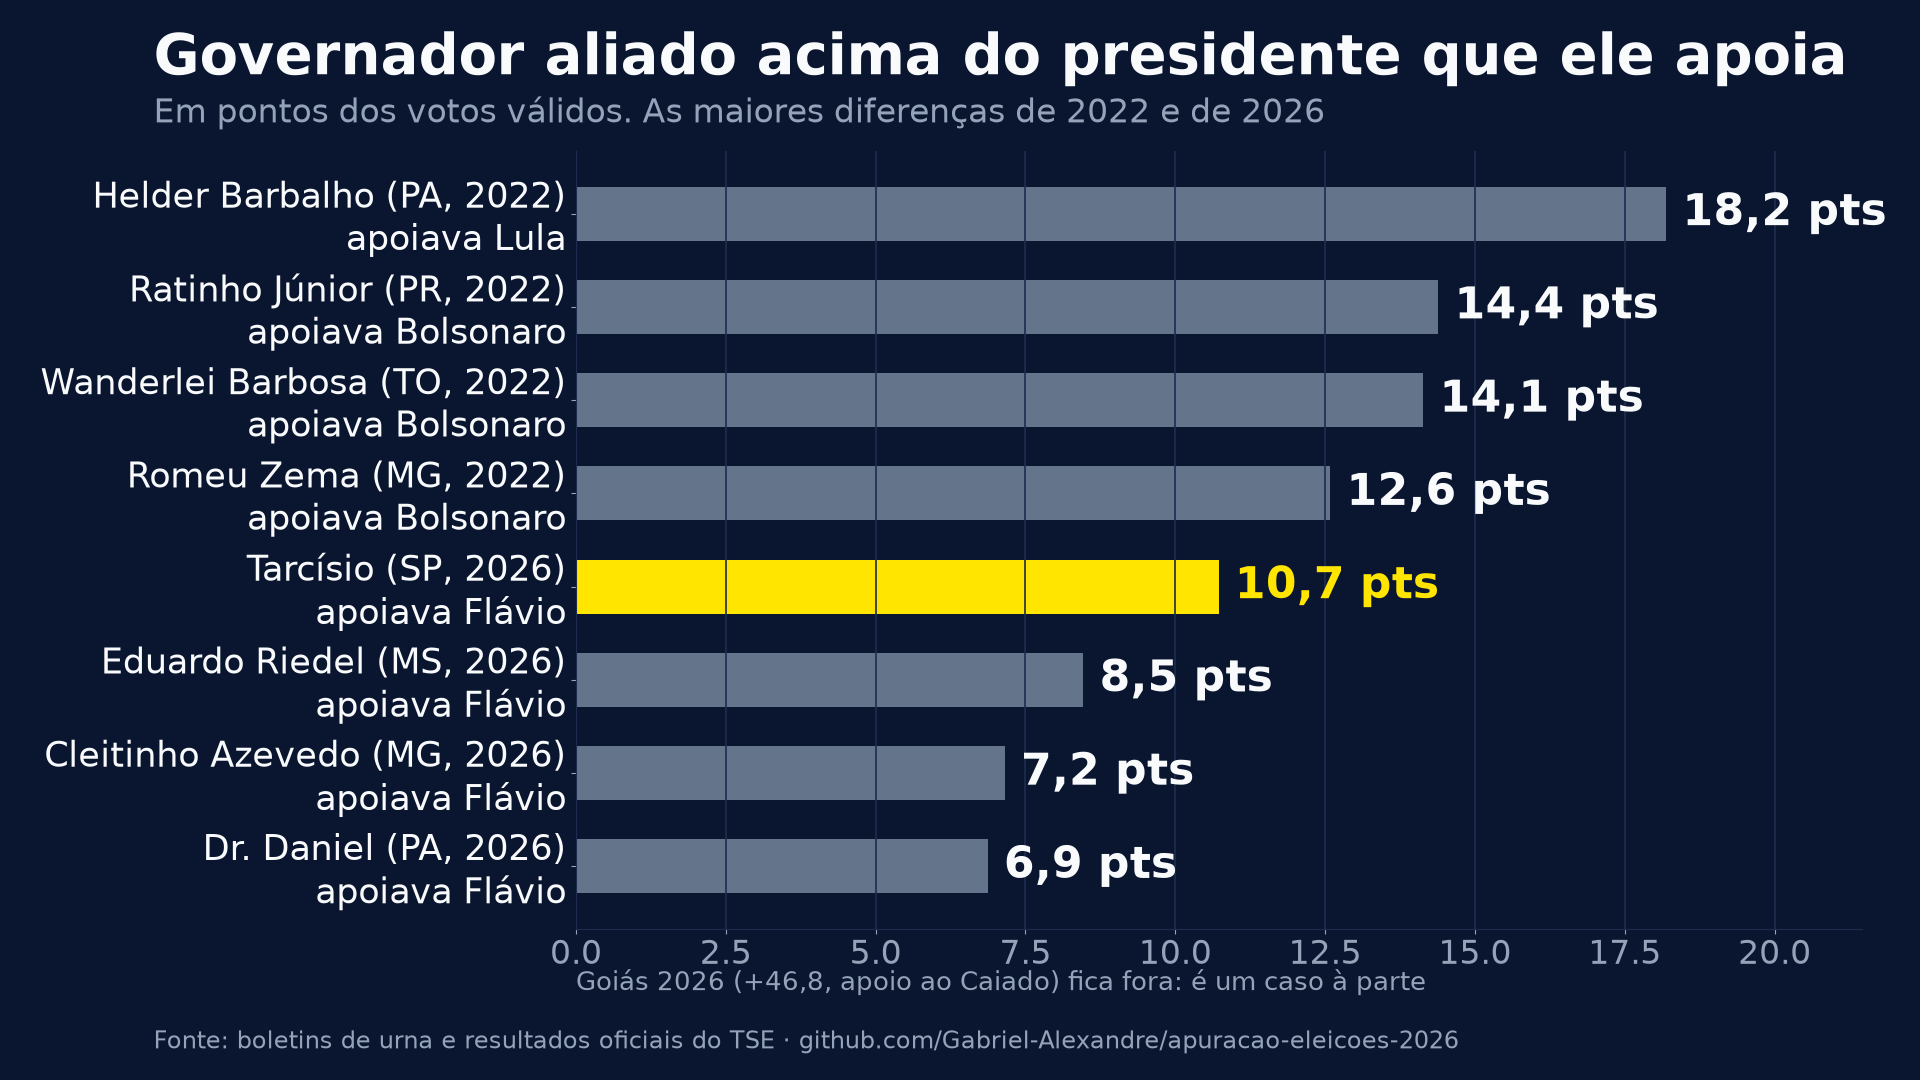
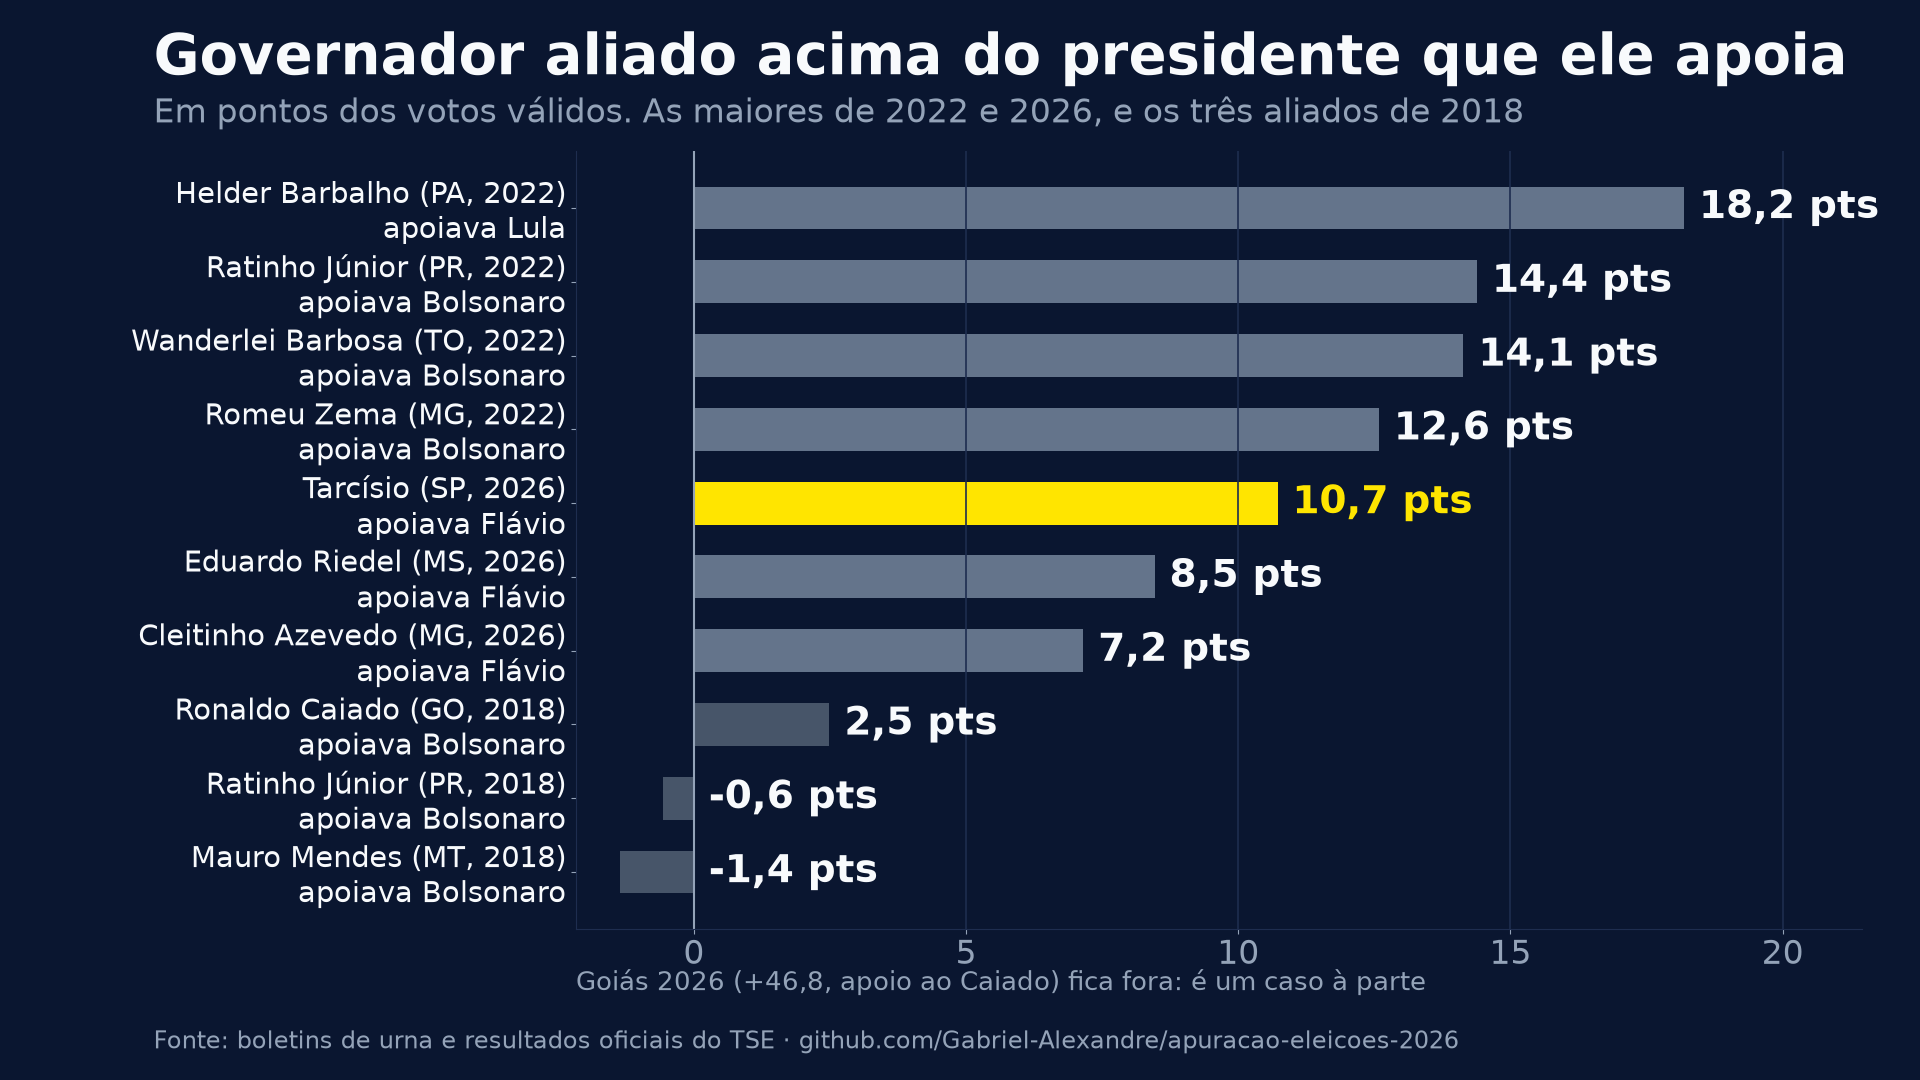
docs: 2018 na leitura da IA e no grafico dos governadores aliados

diff --git a/ferramentas/analise-6-graficos-do-video.py b/ferramentas/analise-6-graficos-do-video.py
@@ -332,9 +332,10 @@ def barras_simples(titulo, sub, rotulos, valores, cores, nome, unidade="", fmt=1
     y = np.arange(len(rotulos))[::-1]
     ax.barh(y, valores, color=cores, height=0.58)
     for yy, x, c in zip(y, valores, cores):
-        ax.text(x + (max(valores) * 0.015), yy, f"{v(x, fmt)}{unidade}", va="center", fontsize=32, fontweight="bold", color=ACENTO if c == ACENTO else FG)
-    ax.set_yticks(y); ax.set_yticklabels(rotulos, fontsize=25, color=FG)
-    ax.set_xlim(0, xmax or max(valores) * 1.18); ax.grid(axis="y", visible=False)
+        ax.text(max(x, 0) + (max(valores) * 0.015), yy, f"{v(x, fmt)}{unidade}", va="center", fontsize=28 if len(rotulos) > 8 else 32, fontweight="bold", color=ACENTO if c == ACENTO else FG)
+    ax.set_yticks(y); ax.set_yticklabels(rotulos, fontsize=21 if len(rotulos) > 8 else 25, color=FG)
+    ax.set_xlim(min(0, min(valores) * 1.6), xmax or max(valores) * 1.18); ax.grid(axis="y", visible=False)
+    ax.axvline(0, color=MUTED, lw=1.5)
     if nota:
         fig.text(0.30, 0.09, nota, fontsize=19, color=MUTED, ha="left", va="center")
     salvar(fig, nome)
@@ -363,7 +364,7 @@ def g16_vazio_comparado():
 
 def g17_governadores_aliados():
     lr = pd.read_csv(saida.RES / "p5_lacuna_governador_presidente.csv")
-    escolha = [(2022, "PA"), (2022, "PR"), (2022, "TO"), (2022, "MG"), (2026, "SP"), (2026, "MS"), (2026, "MG"), (2026, "PA")]
+    escolha = [(2022, "PA"), (2022, "PR"), (2022, "TO"), (2022, "MG"), (2026, "SP"), (2026, "MS"), (2026, "MG"), (2018, "GO"), (2018, "PR"), (2018, "MT")]
     rot, val, cor = [], [], []
     for ano, uf in escolha:
         r = lr[(lr.ano == ano) & (lr.uf == uf)].iloc[0]
@@ -371,8 +372,8 @@ def g17_governadores_aliados():
         nome = str(r.governador).replace("Tarcisio", "Tarcísio").replace("Ratinho Junior", "Ratinho Júnior")
         rot.append(f"{nome} ({uf}, {ano})\napoiava {apoio}")
         val.append(float(r.lacuna_pontos))
-        cor.append(ACENTO if uf == "SP" else NEUTRO)
-    barras_simples("Governador aliado acima do presidente que ele apoia", "Em pontos dos votos válidos. As maiores diferenças de 2022 e de 2026",
+        cor.append(ACENTO if uf == "SP" else ("#475569" if ano == 2018 else NEUTRO))
+    barras_simples("Governador aliado acima do presidente que ele apoia", "Em pontos dos votos válidos. As maiores de 2022 e 2026, e os três aliados de 2018",
                    rot, val, cor, "g17_governadores_aliados.png", " pts",
                    nota="Goiás 2026 (+46,8, apoio ao Caiado) fica fora: é um caso à parte")
 

diff --git a/docs/LEITURA_DA_IA.md b/docs/LEITURA_DA_IA.md
@@ -13,10 +13,10 @@ Todo número sai de [`resultados/RESUMO.json`](../resultados/RESUMO.json) e dos 
 | 1 | **Os dados** | 499.192 boletins (6,55 GB), cada arquivo com sha256 em `dados/MANIFESTO.json` | · | a base está completa: só 15 seções não têm arquivo publicado pelo TSE |
 | 2 | **A soma contra o oficial** | 99,96% das comparações município e cargo iguais voto por voto; sobra de 3.935 votos de presidente nas 15 seções sem arquivo | · | **resolvido.** O número anunciado pelo TSE é a soma das urnas que ele mesmo publicou. Voto que aparecesse no total sem estar em boletim apareceria nessa conta, e não apareceu |
 | 3 | **A noite refeita** | 13 dos 14 placares publicados pela imprensa batem com a soma dos boletins, com diferença de centésimos (`g06`) | · | os placares que passaram na televisão saíram de boletins que já tinham chegado |
-| 4 | **A queda da vantagem** | de 10,55 pontos (10% das seções) para 1,87 no fim: **8,7 pontos**. A ordem das regiões explica 69% (estado e capital, 78%); com a ordem sorteada a vantagem fica perto de 2 pontos a noite toda (`g03`, `g04`) | 2022, 1º turno: **10,7 pontos**, e virou (Lula passou com 68,2% das seções); 2022, 2º turno: 5,8 e virou (`g15`) | **normal.** É o jeito da apuração brasileira, com Sul e Centro-Oeste chegando antes do Nordeste. A de 2026 caiu **menos** que a do 1º turno de 2022. A queda começou às 17:58, mais de uma hora antes de a tela parar |
+| 4 | **A queda da vantagem** | de 10,55 pontos (10% das seções) para 1,87 no fim: **8,7 pontos**. A ordem das regiões explica 69% (estado e capital, 78%); com a ordem sorteada a vantagem fica perto de 2 pontos a noite toda (`g03`, `g04`) | 2022, 1º turno: **10,7 pontos**, e virou (Lula passou com 68,2% das seções); 2022, 2º turno: 5,8 e virou (`g15`). 2018 não entra: os dados abertos daquele ano não trazem a hora de chegada de cada boletim | **normal.** É o jeito da apuração brasileira, com Sul e Centro-Oeste chegando antes do Nordeste. A de 2026 caiu **menos** que a do 1º turno de 2022. A queda começou às 17:58, mais de uma hora antes de a tela parar |
 | 5 | **A tela parada** | travou às 19h06 (64,81%) e voltou às 20h08 (84,96%); nas duas pontas, o placar é a soma dos boletins recebidos até 1,9 e 8,5 minutos antes | · | **normal.** A tela travou, e o número que voltou era a soma de boletins reais |
-| 6 | **O registro de chegada** | nenhum boletim registrado das 19:31:50 às 19:59:22 (**27,5 min**), e depois 20.171 em 6 minutos, de urnas que tinham emitido o boletim em mediana às 17:19 (espera mediana de 162 min); a margem desse lote é a esperada pras regiões dele | maior buraco de 2022: **7,4 min** no 1º turno, 4,6 no 2º (`g16`). Pico de chegada: 5.119 por minuto, contra 3.791 em 2022 | **pede explicação.** Tem cara de fila travada que destravou de uma vez, o que combina com o congestionamento que o TSE declarou. Nenhum boletim sumiu e o lote votou como as regiões dele votam. A causa fica dentro do sistema do TSE, e é a única coisa da noite que, na leitura da IA, merece explicação oficial |
-| 7 | **São Paulo** | Tarcísio 62,65%, Flávio 51,93% (10,7 pontos). 12,5% de quem votou anulou ou votou em branco pra governador, contra 5,9% pra presidente; sobre quem votou, a diferença é de 5,9 pontos (45% era base). Aparece nas 645 cidades (a menor, 4,7). Estimativa: 87% dos eleitores do Tarcísio votaram no Flávio; 9,4% no Cury, no Caiado e no Renan Santos | entre os aliados do Flávio em 2026 é a maior; em 2022, Ratinho Júnior (PR) ficou 14,4 pontos acima do Bolsonaro, Zema (MG) 12,6 e Wanderlei Barbosa (TO) 14,1 (`g17`) | **normal.** É voto dividido: eleitor do governador que escolheu outro nome pra presidente. O tamanho já aconteceu com aliados do Bolsonaro em 2022 |
+| 6 | **O registro de chegada** | nenhum boletim registrado das 19:31:50 às 19:59:22 (**27,5 min**), e depois 20.171 em 6 minutos, de urnas que tinham emitido o boletim em mediana às 17:19 (espera mediana de 162 min); a margem desse lote é a esperada pras regiões dele | maior buraco de 2022: **7,4 min** no 1º turno, 4,6 no 2º (`g16`); de 2018 não há esse registro. Pico de chegada: 5.119 por minuto, contra 3.791 em 2022 | **pede explicação.** Tem cara de fila travada que destravou de uma vez, o que combina com o congestionamento que o TSE declarou. Nenhum boletim sumiu e o lote votou como as regiões dele votam. A causa fica dentro do sistema do TSE, e é a única coisa da noite que, na leitura da IA, merece explicação oficial |
+| 7 | **São Paulo** | Tarcísio 62,65%, Flávio 51,93% (10,7 pontos). 12,5% de quem votou anulou ou votou em branco pra governador, contra 5,9% pra presidente; sobre quem votou, a diferença é de 5,9 pontos (45% era base). Aparece nas 645 cidades (a menor, 4,7). Estimativa: 87% dos eleitores do Tarcísio votaram no Flávio; 9,4% no Cury, no Caiado e no Renan Santos | entre os aliados do Flávio em 2026 é a maior; em 2022, Ratinho Júnior (PR) ficou 14,4 pontos acima do Bolsonaro, Zema (MG) 12,6 e Wanderlei Barbosa (TO) 14,1. Em 2018, o contrário: os três aliados do Bolsonaro eleitos no 1º turno ficaram a menos de 3 pontos dele (Caiado +2,5, Ratinho −0,6, Mauro Mendes −1,4). Com os 33 casos de 2018 a 2026, SP fica entre os percentis 5 e 95 (`g17`) | **normal.** É voto dividido: eleitor do governador que escolheu outro nome pra presidente. O tamanho já aconteceu com aliados do Bolsonaro em 2022. Diferença grande entre aliados não é regra (em 2018 não houve), mas também não é inédita |
 | 8 | **O Senado** | 19 senadores do PL, todos em estados onde o Flávio ganhou; zero nos 12 estados com o Lula na frente ou empate. Ligação por cidade entre o voto no Flávio e no candidato do PL: 0,79 | 2022: 0,65; 2018: 0,70 (`g11`) | **normal, e mais intenso.** É o voto casado de sempre. Nos estados do Nordeste em que o PL foi melhor do que costuma (BA, CE, PE), a explicação mais provável é o segundo voto pro Senado indo pro candidato do PL mesmo de quem votou no Lula |
 | 9 | **As cidades** | 5.273 testadas em três testes; nenhuma nos três ao mesmo tempo | o mesmo teste em 2022: nenhuma (`g12`) | **normal.** O tipo de alteração que esses testes procuram não aparece nessa eleição |
 
@@ -24,7 +24,7 @@ Todo número sai de [`resultados/RESUMO.json`](../resultados/RESUMO.json) e dos 
 
 ## O veredito
 
-**Em tudo o que os dados públicos mostram, a apuração de 2026 se comportou como a de 2022.** A soma das urnas bate com o resultado oficial, a vantagem caiu pelo motivo de sempre e caiu menos que em 2022, a tela parada não mudou o número que voltou, São Paulo tem cara de voto dividido e nenhuma cidade ficou fora do padrão.
+**Em tudo o que os dados públicos mostram, a apuração de 2026 se comportou como a de 2022 e, no que dá pra comparar, como a de 2018** (governadores aliados e Senado; 2018 não tem a hora de chegada dos boletins). A soma das urnas bate com o resultado oficial, a vantagem caiu pelo motivo de sempre e caiu menos que em 2022, a tela parada não mudou o número que voltou, São Paulo tem cara de voto dividido e nenhuma cidade ficou fora do padrão.
 
 **O único ponto fora da curva** é o buraco de 27,5 minutos sem nenhum boletim no registro de chegada, quase quatro vezes o maior de 2022. A leitura mais provável é uma fila travada, mas só o registro interno do TSE responde.
 
